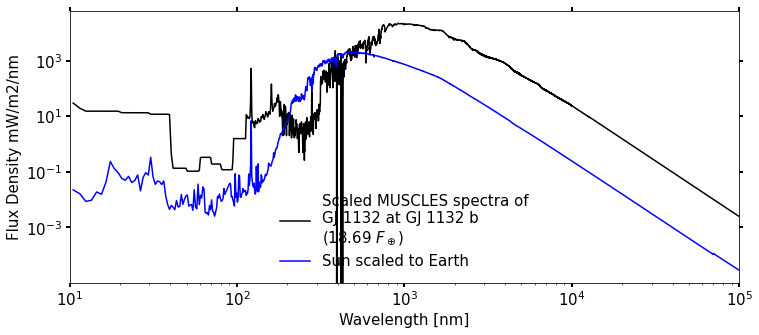
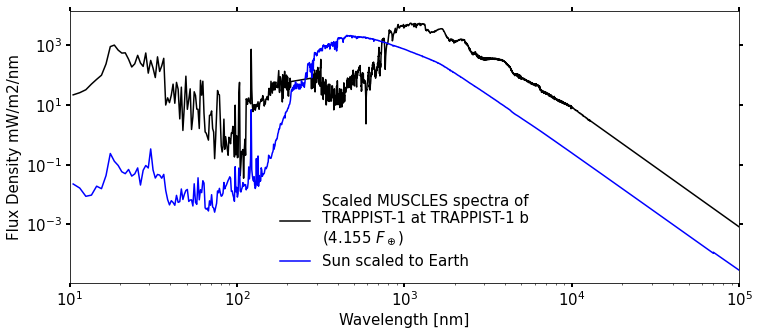
deploy: 4466402e288d533c279721ea21c05f57444bbc2b

diff --git a/searchindex.js b/searchindex.js
@@ -1,1 +1,1 @@
-Search.setIndex({docnames:["SWIM/Stellar_Wind_and_Irradiance_Module","SWIM/User_guide","index"],envversion:{"sphinx.domains.c":2,"sphinx.domains.changeset":1,"sphinx.domains.citation":1,"sphinx.domains.cpp":5,"sphinx.domains.index":1,"sphinx.domains.javascript":2,"sphinx.domains.math":2,"sphinx.domains.python":3,"sphinx.domains.rst":2,"sphinx.domains.std":2,"sphinx.ext.intersphinx":1,sphinx:56},filenames:["SWIM/Stellar_Wind_and_Irradiance_Module.ipynb","SWIM/User_guide.md","index.md"],objects:{},objnames:{},objtypes:{},terms:{"0":[0,1,2],"0000000000000004":0,"004375221051582521":0,"0153":0,"1":0,"10":[0,2],"100":0,"1132":0,"1359943":0,"1360000":0,"16":0,"18":0,"1e":0,"1e5":0,"2":0,"2022":[0,2],"3":0,"3d":0,"3rd":[0,2],"4":[0,2],"6":[0,2],"68955800576663":0,"690337270205994":0,"6th":0,"949514515971132e":0,"case":1,"const":0,"default":1,"do":1,"final":[0,1],"float":0,"function":0,"new":1,"p\u00e9rez":0,"true":0,A:[0,1],By:1,For:1,If:1,In:1,It:2,No:1,On:2,The:1,There:1,These:0,To:1,_:0,_for_:0,abl:0,ac:[0,1],accessess:1,adapt:[0,1],add:[0,1],address:0,affect:1,allison:0,alreadi:[0,1],alter:1,an:0,anaconda:1,ani:1,appear:[0,1],ar:[0,1],arang:0,around:[0,1],astrophys:0,astropi:0,ate:1,atmo:0,atmospher:0,attribut:[1,2],au:[0,1],availi:0,axi:[0,1],b:0,back:0,base:0,been:1,berkelei:0,between:2,bin:0,both:2,british:0,c:[0,1],caitlin:0,california:0,caltech:[0,1],cam:0,can:[0,1,2],caption:0,ccsm3:0,cell:0,chang:0,chosen:1,clearli:0,climate_model:0,climate_model_list:0,climate_model_select:0,clone:1,closest:0,co:0,code:[0,1,2],colliand:0,columbia:0,com:1,command:1,common:[1,2],compar:1,comparioson:1,compat:[0,1],conda:1,constant:[0,1],contain:[0,1],convert:0,cook:[0,1],could:0,cpaess:2,creat:0,creativ:[1,2],cross:0,csv:0,current:0,custom:0,dan:0,data_typ:0,datafram:0,def:0,depend:1,descript:1,description_width:0,desir:0,detail:[1,2],develop:2,df:0,dictionari:0,differ:[0,1],directori:2,disabl:0,disciplinari:0,discuss:2,disk:0,displai:0,doe:0,down:0,download:[0,1],download_data:0,drop:0,drop_dupl:0,dropdown:[0,1],dropdown_chang:0,dropna:0,ds:0,e:0,each:[0,1],earth:0,eddi:[0,1,2],edu:[0,1,2],elif:0,els:0,email:0,enter:0,erg_per_s_to_mw:0,error:1,etc:0,eveveryth:1,exampl:[0,1],exocam:0,exoplanetarch:[0,1],exoplanetari:1,f_:0,fals:[0,1],far:0,fernando:0,fianl:1,file_nam:0,filenam:0,final_scaled_flux:0,find:[0,1],find_host:0,find_planet:0,first:1,fit:[0,1],fits_fil:0,flux1:0,flux2:0,flux:[0,1],flux_relative_to_earth:0,flux_unit:0,follow:[0,1],format:[0,1],found:[1,2],from:0,g:0,genfromtxt:0,get:[0,1],getdata:0,git:1,github:1,gj:0,global:0,goddard:0,good:1,gough:0,greg:0,gregori:[0,1],grid:0,gridspec:0,ha:[0,1],happi:1,have:1,hlsp_muscles_multi_multi_gj1132_broadband_v23_adapt:0,host:0,hostnam:0,how:1,howev:1,http:[0,1,2],i:0,idea:0,iloc:1,impact:1,includ:0,index:0,initi:0,input_fil:0,instal:[0,1],institut:0,instruct:2,integr:0,interact:0,intern:[1,2],io:0,ipac:[0,1],ipywidget:0,iradi:2,irradiance_at_earth:0,issu:2,item:0,jack:[1,2],jame:0,jin:0,json:0,json_fil:0,june:[0,2],jupyt:1,k:0,keep:1,known:0,lab:0,label1:0,label2:0,label:0,last:1,later:1,leed:[0,1],left:2,librari:1,licens:[1,2],like:1,line:0,list:1,lkeli:1,lmd:0,load:0,loc:0,local:1,lockhe:0,look:[0,1],luminos:0,m2:0,m8:0,m:0,machin:1,mai:[0,1],major:[0,1],marsh:0,martin:0,matplotlib:0,mean:0,meet:2,meng:0,menu:0,metadata:1,model_flux:0,model_spectrum:0,model_wavelength:0,modul:2,more:1,most:1,move:1,much:1,multipl:1,multipli:0,muscles_fil:0,mw:0,n:0,name:0,nan:0,nasa:[0,1],nasa_exo_arch:0,nativ:[0,1],navig:1,nc:0,ncar:0,necessari:1,need:[0,1],neg:0,netcdf:0,new_flux:0,newfil:0,next:[0,1],nm:0,none:0,note:0,notebook:1,now:[0,1],np:0,number:0,numpi:0,nuse:0,object:0,observ:[0,1],occur:1,onc:1,ones:0,onli:0,onto:1,open:[0,1],open_dataset:0,oplu:0,option:1,orbit:[0,1],order:[0,1],org:1,origin:[0,1],os:0,other:[0,1],otherwis:0,out:[0,1],packag:1,panda:[0,1],part:2,pd:0,per_ang_to_per_nm:0,per_cm2_to_per_m2:0,perform:0,period:0,pip:0,pl:[0,1],pl_name:0,pl_orbsmax:[0,1],place:[1,2],plan:1,planet:[0,1],planet_nam:0,pleas:[0,1],plot_spectrum:[0,1],plt:0,prepd:1,print:0,project:2,protoplanetari:0,ps:0,py:1,pygjc:[0,1],pyplot:0,python:1,queri:0,r:0,re:0,read_csv:0,rebin_rescal:0,rebin_rescale_spectra:[0,1],recent:1,reciev:0,regard:2,rel:0,relat:[0,2],remov:[0,1],replac:0,repositori:[1,2],resolut:[0,1],resourc:2,result:1,rm:0,rock:0,round:0,row:[0,1],rowupd:[0,1],run:[0,1],same:1,scaled_flux_to_earth:0,scipi:0,script:2,sed:0,see:[1,2],semi:[0,1],semi_major_axi:1,set:[0,1],seti:0,sever:1,should:1,sidebar:2,similar:1,so:0,solar:0,solarforcingcmip6picontrol_c160921:0,some:1,someth:0,sort:1,sort_valu:1,sp:0,spec:0,spectr:0,spectra_name_same_as_host_nam:[0,1],ssi:0,st_lum:0,st_teff:0,star_nam:0,starlabel:0,start:0,stellar:2,stellar_names_and_data:0,stellar_names_const_adapt:0,stellar_names_var_adapt:0,stellar_names_var_n:0,step:1,str:0,stsci:1,style:0,sub:0,subset:0,summari:2,sun:[0,1],sup:0,swim:2,symposium:[0,1,2],sync:0,system:0,tap:0,team:2,termin:1,text:0,th:2,them:[0,1],thi:[0,1,2],think:1,those:[0,2],through:1,time:0,to_csv:0,to_netcdf:0,toa_flux_at_:0,too:1,took:2,top:0,total:0,touch:1,trappist:0,trapz:0,tsi:0,tsi_spectra:0,txt:0,type:[0,1],ucar:2,uk:[0,1],um:0,uncom:0,under:[1,2],univers:[0,1],until:0,updat:1,url:0,us:[0,1],usa:0,util:0,v:0,vail:0,valu:[0,1],variabl:[0,1],variou:0,view:1,vs:0,w:0,wa:[1,2],waccm:0,wai:[0,1],want:[0,1],wav1:0,wav2:0,wavelength:0,we:[0,1],web:0,websit:1,well:2,were:1,when:1,where:1,whether:1,which:[1,2],widget:[0,1],wind:2,work:[0,1,2],would:1,write:[0,1],wrong:0,xarrai:[0,1],xlim:0,xr:0,you:[0,1,2],youngblood:0,your:[0,1]},titles:["SWIM: Stellar Wind and Irradiance Module","SWIM: User guide","(Exo)Planetary Atmosphere"],titleterms:{"1":1,"11":1,"12":1,"2":1,"3":1,"4":1,"5":1,"6":1,"7":1,"8":1,"9":1,"do":0,"import":[0,1],The:2,To:0,access:[0,1],archiv:[0,1],arrai:[0,1],assign:[0,1],atmospher:2,author:[0,1],begin:0,cell:1,choos:[0,1],clean:[0,1],climat:[0,1],commun:0,contribut:[0,1],data:[0,1],databas:[0,1],descript:0,directori:[0,1],exo:2,exoplanet:[0,1],file:[0,1],from:1,grid:1,guid:[0,1],habit:2,here:0,impact:2,input:0,irradi:[0,1],life:2,list:0,model:[0,1],modul:[0,1],muscl:[0,1],option:0,output:[0,1],physic:2,planetari:2,plot:[0,1],program:0,read:[0,1],rebin:[0,1],requir:[0,1],rescal:[0,1],save:[0,1],scale:[0,1],select:[0,1],solar:2,spectra:[0,1],spectrum:[0,1],star:[0,1,2],stellar:0,swim:[0,1],target:[0,1],up:[0,1],user:[0,1],wavelength:1,wind:0}})
+Search.setIndex({docnames:["SWIM/Stellar_Wind_and_Irradiance_Module","SWIM/User_guide","index"],envversion:{"sphinx.domains.c":2,"sphinx.domains.changeset":1,"sphinx.domains.citation":1,"sphinx.domains.cpp":5,"sphinx.domains.index":1,"sphinx.domains.javascript":2,"sphinx.domains.math":2,"sphinx.domains.python":3,"sphinx.domains.rst":2,"sphinx.domains.std":2,"sphinx.ext.intersphinx":1,sphinx:56},filenames:["SWIM/Stellar_Wind_and_Irradiance_Module.ipynb","SWIM/User_guide.md","index.md"],objects:{},objnames:{},objtypes:{},terms:{"0":[0,1,2],"0005533501092157371":0,"01154":0,"1":0,"10":[0,2],"100":0,"1359749":0,"1360000":0,"154401411742482":0,"155166035519113":0,"17":0,"1_broadband_v23_adapt":0,"1e":0,"1e5":0,"2":0,"2022":[0,2],"3":0,"3d":0,"3rd":[0,2],"4":[0,2],"6":2,"605194006526422e":0,"6th":0,"74":0,"8":0,"case":1,"const":0,"default":1,"do":1,"final":[0,1],"float":0,"function":0,"new":1,"p\u00e9rez":0,"true":0,A:[0,1],By:1,For:1,If:1,In:1,It:2,No:1,On:2,The:1,There:1,These:0,To:1,_:0,_for_:0,abl:0,ac:[0,1],accessess:1,adapt:[0,1],add:[0,1],address:0,affect:1,allison:0,alreadi:[0,1],alter:1,an:0,anaconda:1,ani:1,appear:[0,1],ar:[0,1],arang:0,around:[0,1],astrophys:0,astropi:0,ate:1,atmo:0,atmospher:0,attribut:[1,2],au:[0,1],availi:0,axi:[0,1],b:0,back:0,base:0,been:1,berkelei:0,between:2,bin:0,both:2,british:0,c:[0,1],caitlin:0,california:0,caltech:[0,1],cam:0,can:[0,1,2],caption:0,ccsm3:0,cell:0,chang:0,chosen:1,climate_model:0,climate_model_list:0,climate_model_select:0,clone:1,closest:0,co:0,code:[0,1,2],colliand:0,columbia:0,com:1,command:1,common:[1,2],compar:1,comparioson:1,compat:[0,1],conda:1,constant:[0,1],contain:[0,1],convert:0,cook:[0,1],could:0,cpaess:2,creat:0,creativ:[1,2],cross:0,csv:0,current:0,custom:0,dan:0,data_typ:0,datafram:0,def:0,depend:1,descript:1,description_width:0,desir:0,detail:[1,2],develop:2,df:0,dictionari:0,differ:[0,1],directori:2,disabl:0,disciplinari:0,discuss:2,disk:0,displai:0,doe:0,down:0,download:[0,1],download_data:0,drop:0,drop_dupl:0,dropdown:[0,1],dropdown_chang:0,dropna:0,ds:0,e:0,each:[0,1],earth:0,eddi:[0,1,2],edu:[0,1,2],elif:0,els:0,email:0,enter:0,erg_per_s_to_mw:0,error:1,etc:0,eveveryth:1,exampl:[0,1],exocam:0,exoplanetarch:[0,1],exoplanetari:1,f_:0,fals:[0,1],far:0,fernando:0,fianl:1,file_nam:0,filenam:0,final_scaled_flux:0,find:[0,1],find_host:0,find_planet:0,first:1,fit:[0,1],fits_fil:0,flux1:0,flux2:0,flux:[0,1],flux_relative_to_earth:0,flux_unit:0,follow:[0,1],format:[0,1],found:[1,2],from:0,g:0,genfromtxt:0,get:[0,1],getdata:0,git:1,github:1,global:0,goddard:0,good:1,gough:0,greg:0,gregori:[0,1],grid:0,gridspec:0,ha:[0,1],happi:1,have:1,hlsp:0,hlsp_muscles_multi_multi_trappist:0,host:0,hostnam:0,how:1,howev:1,http:[0,1,2],i:0,idea:0,iloc:1,impact:1,includ:0,index:0,initi:0,input_fil:0,instal:[0,1],institut:0,instruct:2,integr:0,interact:0,intern:[1,2],io:0,ipac:[0,1],ipywidget:0,iradi:2,irradiance_at_earth:0,issu:2,item:0,jack:[1,2],jame:0,jin:0,json:0,json_fil:0,june:[0,2],jupyt:1,k:0,keep:1,known:0,lab:0,label1:0,label2:0,label:0,last:1,later:1,leed:[0,1],left:2,librari:1,licens:[1,2],like:1,line:0,list:1,lkeli:1,lmd:0,load:0,loc:0,local:1,lockhe:0,look:[0,1],luminos:0,m2:0,m8:0,m:0,machin:1,mai:1,major:[0,1],marsh:0,martin:0,matplotlib:0,meet:2,meng:0,menu:0,metadata:1,mission:0,model_flux:0,model_spectrum:0,model_wavelength:0,modul:2,more:1,most:1,move:1,much:1,multipl:1,multipli:0,muscles_fil:0,mv:0,mw:0,n:0,name:0,nan:0,nasa:[0,1],nasa_exo_arch:0,nativ:[0,1],navig:1,nc:0,ncar:0,necessari:1,need:[0,1],netcdf:0,new_flux:0,newfil:0,next:[0,1],nm:0,none:0,note:0,notebook:1,now:[0,1],np:0,number:0,numpi:0,nuse:0,object:0,observ:[0,1],occur:1,onc:1,ones:0,onli:0,onto:1,open:[0,1],open_dataset:0,oplu:0,option:1,orbit:[0,1],order:[0,1],org:1,origin:[0,1],os:0,other:[0,1],otherwis:0,out:[0,1],packag:1,panda:[0,1],part:2,pd:0,per_ang_to_per_nm:0,per_cm2_to_per_m2:0,perform:0,period:0,pip:0,pl:[0,1],pl_name:0,pl_orbsmax:[0,1],place:[1,2],plan:1,planet:[0,1],planet_nam:0,pleas:[0,1],plot_spectrum:[0,1],plt:0,prepd:1,print:0,project:2,protoplanetari:0,ps:0,py:1,pygjc:[0,1],pyplot:0,python:1,queri:0,r:0,re:0,read_csv:0,rebin_rescal:0,rebin_rescale_spectra:[0,1],recent:1,reciev:0,regard:2,rel:0,relat:[0,2],remov:[0,1],replac:0,repositori:[1,2],resolut:[0,1],resourc:2,result:1,rm:0,rock:0,round:0,row:[0,1],rowupd:[0,1],run:[0,1],same:1,scaled_flux_to_earth:0,scipi:0,script:2,sed:0,see:[1,2],semi:[0,1],semi_major_axi:1,set:[0,1],seti:0,sever:1,should:1,sidebar:2,similar:1,so:0,solar:0,solarforcingcmip6picontrol_c160921:0,some:1,sort:1,sort_valu:1,sp:0,spec:0,spectr:0,spectra_name_same_as_host_nam:[0,1],ssi:0,st_lum:0,st_teff:0,star_nam:0,starlabel:0,start:0,stellar:2,stellar_names_and_data:0,stellar_names_const_adapt:0,stellar_names_var_adapt:0,stellar_names_var_n:0,step:1,str:0,stsci:[0,1],style:0,sub:0,subset:0,summari:2,sun:[0,1],sup:0,swim:2,symposium:[0,1,2],sync:0,system:0,tap:0,team:2,termin:1,text:0,th:2,them:[0,1],thi:[0,1,2],think:1,those:[0,2],through:1,time:0,to_csv:0,to_netcdf:0,toa_flux_at_:0,too:1,took:2,top:0,total:0,touch:1,trappist:0,trapz:0,tsi:0,tsi_spectra:0,txt:0,type:[0,1],ucar:2,uk:[0,1],um:0,uncom:0,under:[1,2],univers:[0,1],until:0,updat:1,url:0,us:[0,1],usa:0,util:0,v:0,vail:0,valu:[0,1],variabl:[0,1],variou:0,view:1,vs:0,w:0,wa:[1,2],waccm:0,wai:[0,1],want:[0,1],wav1:0,wav2:0,wavelength:0,we:[0,1],web:0,websit:1,well:2,were:1,wget:0,when:1,where:1,whether:1,which:[1,2],widget:[0,1],wind:2,work:[0,1,2],would:1,write:[0,1],xarrai:[0,1],xlim:0,xr:0,you:[0,1,2],youngblood:0,your:[0,1]},titles:["SWIM: Stellar Wind and Irradiance Module","SWIM: User guide","(Exo)Planetary Atmosphere"],titleterms:{"1":1,"11":1,"12":1,"2":1,"3":1,"4":1,"5":1,"6":1,"7":1,"8":1,"9":1,"do":0,"import":[0,1],The:2,To:0,access:[0,1],archiv:[0,1],arrai:[0,1],assign:[0,1],atmospher:2,author:[0,1],begin:0,cell:1,choos:[0,1],clean:[0,1],climat:[0,1],commun:0,contribut:[0,1],data:[0,1],databas:[0,1],descript:0,directori:[0,1],exo:2,exoplanet:[0,1],file:[0,1],from:1,grid:1,guid:[0,1],habit:2,here:0,impact:2,input:0,irradi:[0,1],life:2,list:0,model:[0,1],modul:[0,1],muscl:[0,1],option:0,output:[0,1],physic:2,planetari:2,plot:[0,1],program:0,read:[0,1],rebin:[0,1],requir:[0,1],rescal:[0,1],save:[0,1],scale:[0,1],select:[0,1],solar:2,spectra:[0,1],spectrum:[0,1],star:[0,1,2],stellar:0,swim:[0,1],target:[0,1],up:[0,1],user:[0,1],wavelength:1,wind:0}})

diff --git a/SWIM/Stellar_Wind_and_Irradiance_Module.html b/SWIM/Stellar_Wind_and_Irradiance_Module.html
@@ -502,7 +502,7 @@ This is a .nc (netCDF file) for CAM/WACCM, for example.</p>
 <ul class="simple">
 <li><p>Add in stellar wind models</p></li>
 <li><p>Add in protoplanetary disk models</p></li>
-<li><p>Add different climate model wavelength grids (only WACCM, ROCKE-3D, and custom grids so far)</p></li>
+<li><p>Add different climate model wavelength grids (only WACCM, ROCKE-3D, UM, and custom grids so far)</p></li>
 <li><p>These wavelength grids are not known to us (we could not find them)</p></li>
 <li><p>Add in different ways to save the data (e.g. files such as .csv, .txt etc.) to be compatable with different models</p></li>
 </ul>
@@ -565,7 +565,7 @@ This is a .nc (netCDF file) for CAM/WACCM, for example.</p>
 </div>
 <div class="cell_output docutils container">
 <script type="application/vnd.jupyter.widget-view+json">
-{"model_id": "0b725980e98044b0b5dd2680457217ce", "version_major": 2, "version_minor": 0}
+{"model_id": "b28af1d2e3f64f9f8399ff176f0cb0f6", "version_major": 2, "version_minor": 0}
 </script></div>
 </div>
 </section>
@@ -590,7 +590,7 @@ This is a .nc (netCDF file) for CAM/WACCM, for example.</p>
 </div>
 <div class="cell_output docutils container">
 <script type="application/vnd.jupyter.widget-view+json">
-{"model_id": "fa28446041874772b2e2022bb175a3cc", "version_major": 2, "version_minor": 0}
+{"model_id": "ae844b9bc8744bc091ccb1c7a4124d67", "version_major": 2, "version_minor": 0}
 </script></div>
 </div>
 </section>
@@ -616,18 +616,19 @@ This is a .nc (netCDF file) for CAM/WACCM, for example.</p>
 
 <span class="n">New_flux</span> <span class="o">=</span> <span class="n">spec</span><span class="p">[</span><span class="s1">&#39;FLUX&#39;</span><span class="p">]</span> <span class="o">*</span> <span class="n">erg_per_s_to_mW</span> <span class="o">*</span> <span class="n">per_cm2_to_per_m2</span> <span class="o">*</span> <span class="n">per_Ang_to_per_nm</span>
 
-<span class="c1"># may need to change for different models</span>
+<span class="c1"># MUSCLES wavelength converted to nm</span>
 <span class="n">Wavelength</span> <span class="o">=</span> <span class="n">spec</span><span class="p">[</span><span class="s1">&#39;WAVELENGTH&#39;</span><span class="p">]</span><span class="o">*</span><span class="mf">0.1</span>
 
 <span class="c1"># read in or create the output model grid and spectrum</span>
-<span class="n">Irradiance_at_Earth</span> <span class="o">=</span> <span class="mi">1360000</span> <span class="c1"># TSI? mW/m2? </span>
-<span class="n">xlim</span> <span class="o">=</span> <span class="p">(</span><span class="mi">10</span><span class="p">,</span><span class="mf">1e5</span><span class="p">)</span> <span class="c1"># xlim for plots</span>
+<span class="n">Irradiance_at_Earth</span> <span class="o">=</span> <span class="mi">1360000</span> <span class="c1"># mW/m2 </span>
 </pre></div>
 </div>
 </div>
 <div class="cell_output docutils container">
-<div class="output stream highlight-myst-ansi notranslate"><div class="highlight"><pre><span></span>hlsp_muscles_multi_multi_gj1132_broadband_v23_adapt-const-res-sed.fits already downloaded
-./fits/hlsp_muscles_multi_multi_gj1132_broadband_v23_adapt-const-res-sed.fits
+<div class="output stream highlight-myst-ansi notranslate"><div class="highlight"><pre><span></span>Downloading data...
+ hlsp_muscles_multi_multi_trappist-1_broadband_v23_adapt-const-res-sed.fits
+wget https://archive.stsci.edu/missions/hlsp/muscles/trappist-1/hlsp_muscles_multi_multi_trappist-1_broadband_v23_adapt-const-res-sed.fits; mv hlsp_muscles_multi_multi_trappist-1_broadband_v23_adapt-const-res-sed.fits ./fits
+./fits/hlsp_muscles_multi_multi_trappist-1_broadband_v23_adapt-const-res-sed.fits
 </pre></div>
 </div>
 </div>
@@ -640,7 +641,8 @@ This is a .nc (netCDF file) for CAM/WACCM, for example.</p>
 <div class="highlight-ipython3 notranslate"><div class="highlight"><pre><span></span><span class="c1"># Other climate models can be included</span>
 <span class="c1"># Please email Greg Cooke at pygjc@leeds.ac.uk</span>
 
-<span class="n">Climate_model_list</span> <span class="o">=</span> <span class="p">[</span><span class="s1">&#39;None selected&#39;</span><span class="p">,</span><span class="s1">&#39;WACCM&#39;</span><span class="p">,</span> 
+<span class="n">Climate_model_list</span> <span class="o">=</span> <span class="p">[</span><span class="s1">&#39;None selected&#39;</span><span class="p">,</span>
+                      <span class="s1">&#39;WACCM&#39;</span><span class="p">,</span> 
                       <span class="s1">&#39;CAM&#39;</span><span class="p">,</span> 
                       <span class="s1">&#39;ExoCam&#39;</span><span class="p">,</span> 
                       <span class="s1">&#39;UM&#39;</span><span class="p">,</span> 
@@ -671,9 +673,9 @@ This is a .nc (netCDF file) for CAM/WACCM, for example.</p>
 </div>
 <div class="cell_output docutils container">
 <script type="application/vnd.jupyter.widget-view+json">
-{"model_id": "f60d55160e744867bed58c0dd0d33417", "version_major": 2, "version_minor": 0}
+{"model_id": "7772472347c24f9e99ef0896c104784d", "version_major": 2, "version_minor": 0}
 </script><script type="application/vnd.jupyter.widget-view+json">
-{"model_id": "437a6ba393e044e1ace8befb4e064f62", "version_major": 2, "version_minor": 0}
+{"model_id": "8c0eb92ab12d4b0188047035af1fb1b7", "version_major": 2, "version_minor": 0}
 </script><div class="output stream highlight-myst-ansi notranslate"><div class="highlight"><pre><span></span>Target model: WACCM
 </pre></div>
 </div>
@@ -722,8 +724,8 @@ This is a .nc (netCDF file) for CAM/WACCM, for example.</p>
 </div>
 <div class="cell_output docutils container">
 <div class="output stream highlight-myst-ansi notranslate"><div class="highlight"><pre><span></span>File already downloaded
-Total stellar irradiance from original file relative to the Sun: 6.949514515971132e-16
-Scaled total stellar irradiance relative to the Sun: 1.0000000000000004
+Total stellar irradiance from original file relative to the Sun: 8.605194006526422e-17
+Scaled total stellar irradiance relative to the Sun: 1.0
 </pre></div>
 </div>
 </div>
@@ -772,7 +774,7 @@ Scaled total stellar irradiance relative to the Sun: 1.0000000000000004
 </div>
 <div class="cell_output docutils container">
 <script type="application/vnd.jupyter.widget-view+json">
-{"model_id": "827bfa624de64363b9a70ec41ecfd5ee", "version_major": 2, "version_minor": 0}
+{"model_id": "7fe55133a6454541b9f870f123c80a99", "version_major": 2, "version_minor": 0}
 </script></div>
 </div>
 </section>
@@ -798,12 +800,12 @@ Scaled total stellar irradiance relative to the Sun: 1.0000000000000004
 </div>
 </div>
 <div class="cell_output docutils container">
-<div class="output stream highlight-myst-ansi notranslate"><div class="highlight"><pre><span></span>semi-major axis of GJ 1132 b = 0.0153 AU
-Star has 0.004375221051582521 times luminosity of Sun
-GJ 1132 b recieves 18.690337270205994 times flux recieved by Earth
+<div class="output stream highlight-myst-ansi notranslate"><div class="highlight"><pre><span></span>semi-major axis of TRAPPIST-1 b = 0.01154 AU
+Star has 0.0005533501092157371 times luminosity of Sun
+TRAPPIST-1 b recieves 4.155166035519113 times flux recieved by Earth
 
-Total stellar irradiance from Sun spectra is: 1359943.3 mW/m^2
-Scaled total stellar irradiance relative to the Sun: 18.68955800576663
+Total stellar irradiance from Sun spectra is: 1359749.74 mW/m^2
+Scaled total stellar irradiance relative to the Sun: 4.154401411742482
 </pre></div>
 </div>
 </div>
@@ -841,9 +843,8 @@ Scaled total stellar irradiance relative to the Sun: 18.68955800576663
     <span class="n">NewFile</span> <span class="o">=</span> <span class="n">NewFile</span><span class="o">.</span><span class="n">replace</span><span class="p">(</span><span class="s2">&quot; &quot;</span><span class="p">,</span> <span class="s2">&quot;_&quot;</span><span class="p">)</span>
     <span class="n">ds</span><span class="o">.</span><span class="n">to_netcdf</span><span class="p">(</span><span class="s1">&#39;./output/&#39;</span><span class="o">+</span><span class="n">NewFile</span><span class="p">)</span>
     <span class="nb">print</span><span class="p">(</span><span class="s1">&#39;File saved&#39;</span><span class="p">)</span>
-<span class="k">elif</span> <span class="p">(</span><span class="n">model</span> <span class="o">==</span> <span class="s1">&#39;ROCKE-3D&#39;</span><span class="p">):</span>
+<span class="k">elif</span> <span class="p">(</span><span class="n">model</span> <span class="o">==</span> <span class="s1">&#39;ROCKE-3D&#39;</span> <span class="ow">or</span> <span class="n">model</span> <span class="o">==</span> <span class="s1">&#39;UM&#39;</span><span class="p">):</span>
     <span class="c1"># does ROCKE-3D need to be scaled back to W/m2/m and grid on m?</span>
-    <span class="c1"># clearly negative fluxes mean something is wrong here!</span>
     <span class="n">NewFile</span> <span class="o">=</span> <span class="s1">&#39;TOA_Flux_at_&#39;</span><span class="o">+</span><span class="n">Find_planets</span><span class="o">.</span><span class="n">value</span><span class="o">+</span><span class="s1">&#39;_for_&#39;</span><span class="o">+</span><span class="n">Climate_model_selection</span><span class="o">.</span><span class="n">value</span>
     <span class="n">NewFile</span> <span class="o">=</span> <span class="n">NewFile</span><span class="o">.</span><span class="n">replace</span><span class="p">(</span><span class="s2">&quot; &quot;</span><span class="p">,</span> <span class="s2">&quot;_&quot;</span><span class="p">)</span>
     <span class="n">df</span> <span class="o">=</span> <span class="n">pd</span><span class="o">.</span><span class="n">DataFrame</span><span class="p">(</span><span class="n">data</span><span class="o">=</span><span class="p">{</span><span class="s1">&#39;Wavelength [m]&#39;</span><span class="p">:</span> <span class="n">model_wavelength</span><span class="p">,</span> <span class="s1">&#39;Flux [W/m^3]&#39;</span><span class="p">:</span>  <span class="n">Final_scaled_flux</span><span class="p">})</span>
